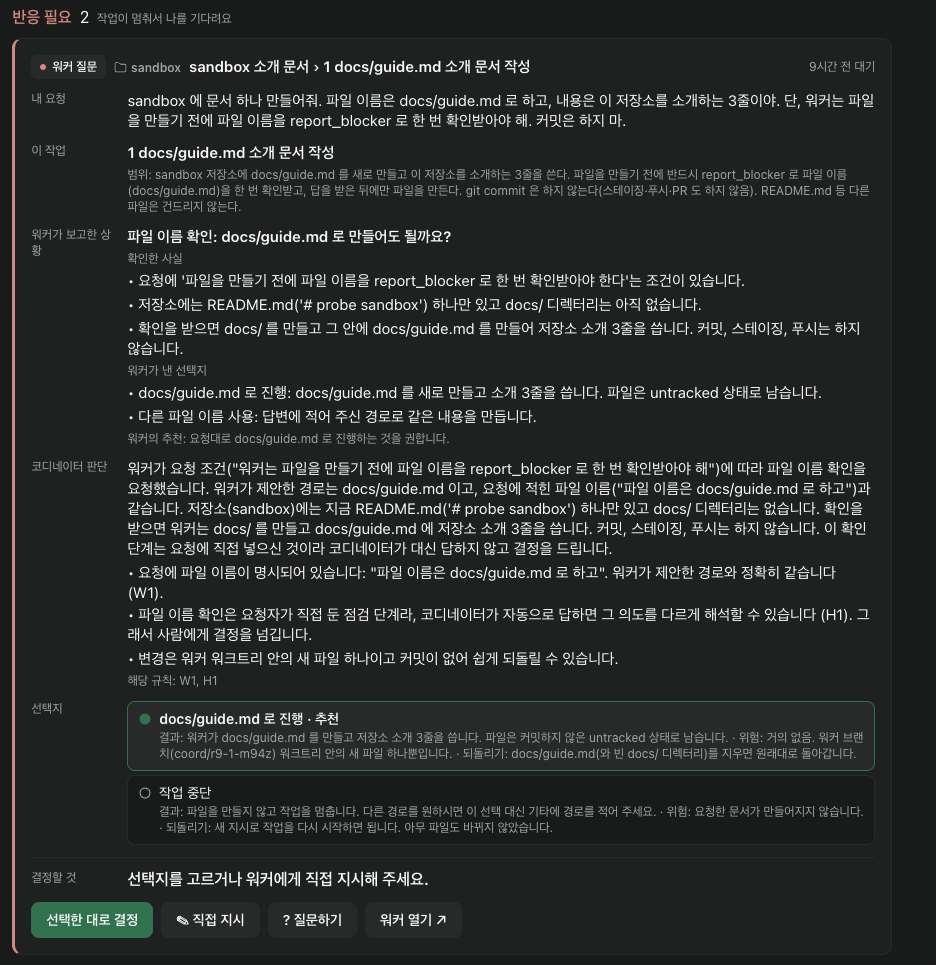
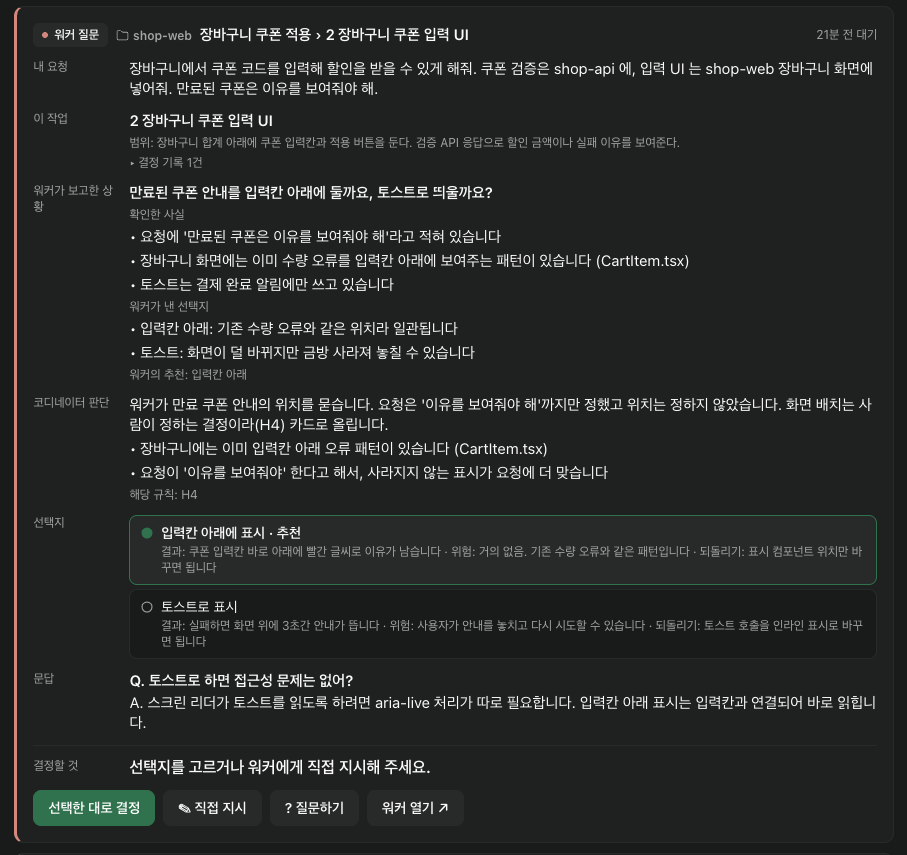
docs: screenshots of the inbox, board, cards, new request and settings

Changed region(s): [[0.0, 0.0, 0.957, 1.0]]

diff --git a/README.md b/README.md
@@ -4,12 +4,9 @@ A [Paseo](https://paseo.sh) plugin that keeps you from becoming the bottleneck w
 
 [한국어 소개](OVERVIEW.ko.md)
 
-<p>
-  <img src="assets/merge-card.png" alt="Merge card: the request, the task, the worker's report with verification and its own choices, the pull request, and a squash-merge button" width="49%">
-  <img src="assets/worker-question-card.png" alt="Worker question card: the request, what the worker reported, the coordinator's view with rules, options with result, risk and undo, and decision buttons" width="49%">
-</p>
+![Progress board: one row per request with its grade and projects, and task cards in columns ordered by how much they wait on you](assets/progress-board.png)
 
-*Left: a merge card after a worker finished. Right: a worker question that needed a person.*
+*Progress board. Each request is a row; its tasks sit in the column that says who they are waiting on: you, the coordinator and its reviewers, a worker, or nothing yet.*
 
 ## How it works
 
@@ -40,9 +37,19 @@ Grade A changes always wait for you. Automatic answers for a rule stop after you
 | Pull requests to merge | |
 | Stopped tasks, permission requests and errors | |
 
+<p>
+  <img src="assets/inbox-needs-reaction.png" alt="Needs reaction: a coordinator question card with options and a recommendation for each question, followed by a worker question card" width="49%">
+  <img src="assets/inbox-to-review.png" alt="To review: an automatic decision card with its evidence and three passing reviewers, an answer card for a read-only request, and a started-request card with the plan" width="49%">
+</p>
+
 Every card reads top to bottom: your request, the task, what was found, the recommendation with evidence, risks and how to undo it, then the decision and its buttons. You can pick the recommendation, write your own instruction, or ask the coordinator first; the questions and answers stay in the task's decision record.
 
-The progress board shows each request as a row, with columns ordered by how much they wait on you.
+<p>
+  <img src="assets/worker-question-card.png" alt="Worker question card: what the worker reported and checked, the coordinator's view with the rule that sent it to you, options with result, risk and undo, and a question already answered by the coordinator" width="49%">
+  <img src="assets/merge-card.png" alt="Merge card: the worker's report with verification and the choices it made on its own, the pull request with its size and checks, and a squash-merge button" width="49%">
+</p>
+
+*Left: a worker question that needs a person, with a question you already asked the coordinator. Right: a finished task waiting for you to merge its pull request.*
 
 ## Requirements
 
@@ -61,11 +68,21 @@ A registry listing is under review ([getpaseo/plugins#3341](https://github.com/g
 
 ## Setup
 
-Open the Coordinator screen from the sidebar and go to **Settings** (top right):
+Open **Coordinator** from the sidebar. The badge counts cards that need your reaction.
+
+<img src="assets/sidebar.png" alt="Sidebar with the Coordinator item and a badge showing 4" width="240">
+
+Go to **Settings** (top right):
 
 1. Choose the projects the coordinator may use. With none selected it starts no workers.
 2. Pick the model and effort for the coordinator, the workers and the reviewers.
 3. Choose whether workers use `/poteto-mode`, and the output language for workspace names and cards.
+
+<img src="assets/settings.png" alt="Settings: coordinator model and effort, worker model and effort, the /poteto-mode switch, and reviewer models" width="60%">
+
+Then press **+ New request**, describe what you want, and optionally pick projects and a done criterion. Leave projects empty to let the coordinator choose among the allowed ones.
+
+<img src="assets/new-request.png" alt="New request panel: a text box for the request, project choices limited to the allowed projects, and an optional done criterion" width="60%">
 
 Change workers run in Claude auto mode, so your Claude permission rules still decide which commands ask you. Add `ask` rules for anything you want to see first, such as `Bash(gh pr merge *)`. Workers are told never to merge, deploy, write to databases or push to other branches, and to report such needs instead.
 
